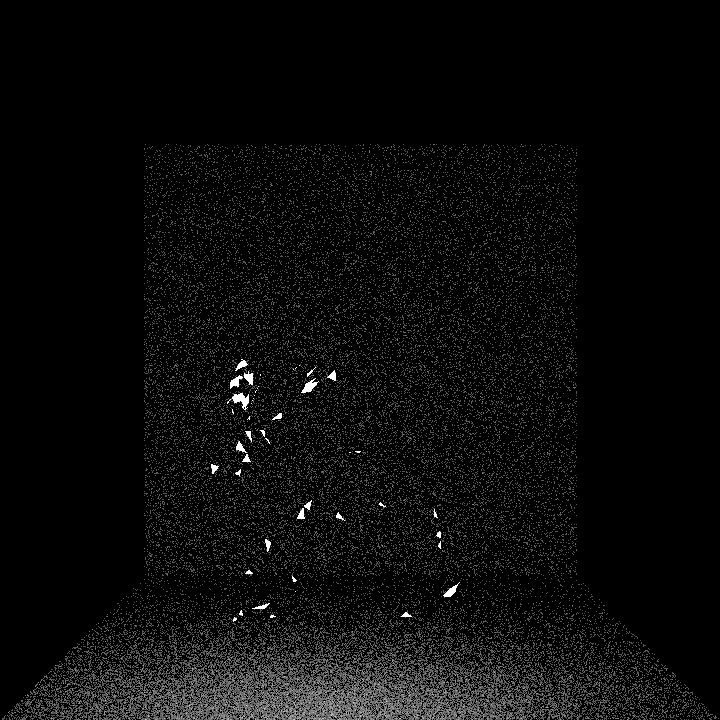
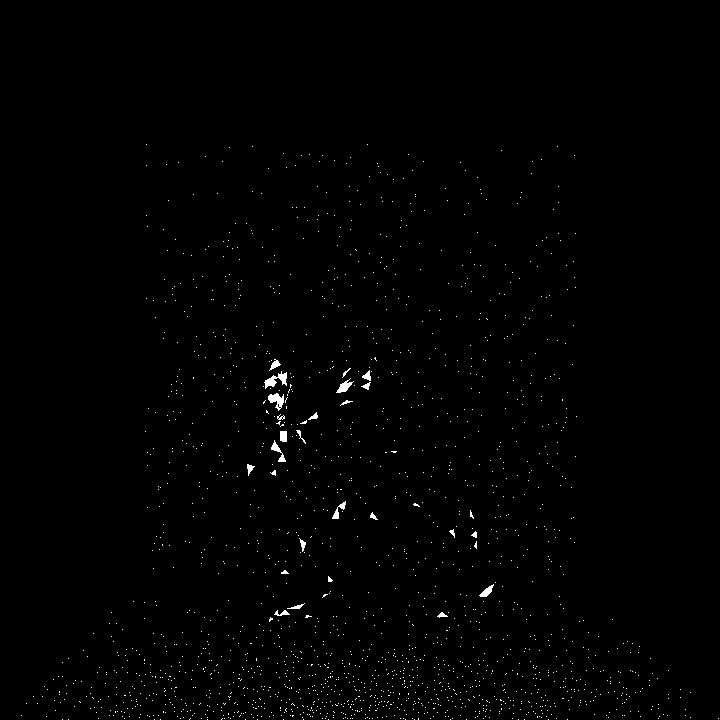
光追框架

diff --git a/PathTracking/PathTracking.cpp b/PathTracking/PathTracking.cpp
@@ -17,7 +17,7 @@ void readObj(std::string filepath, Scene& scene);
 int main()
 {
     // 采样次数
-    const int SAMPLE =64;
+    const int SAMPLE =1;
     // 每次采样的亮度
     const double BRIGHTNESS = (2.0f * 3.1415926f) * (1.0f / double(SAMPLE));//因为是在半球上的均匀采样
 
@@ -181,6 +181,7 @@ void readObj(std::string filepath,Scene& scene) {
             vec3 point = 5 * vec3(x, y, z);
             point.z() += 1.0;
             point.y() -= 0.9;
+            point.x() += 0.09;
             vertices.push_back(point);
         }
         if (type == "f") {
